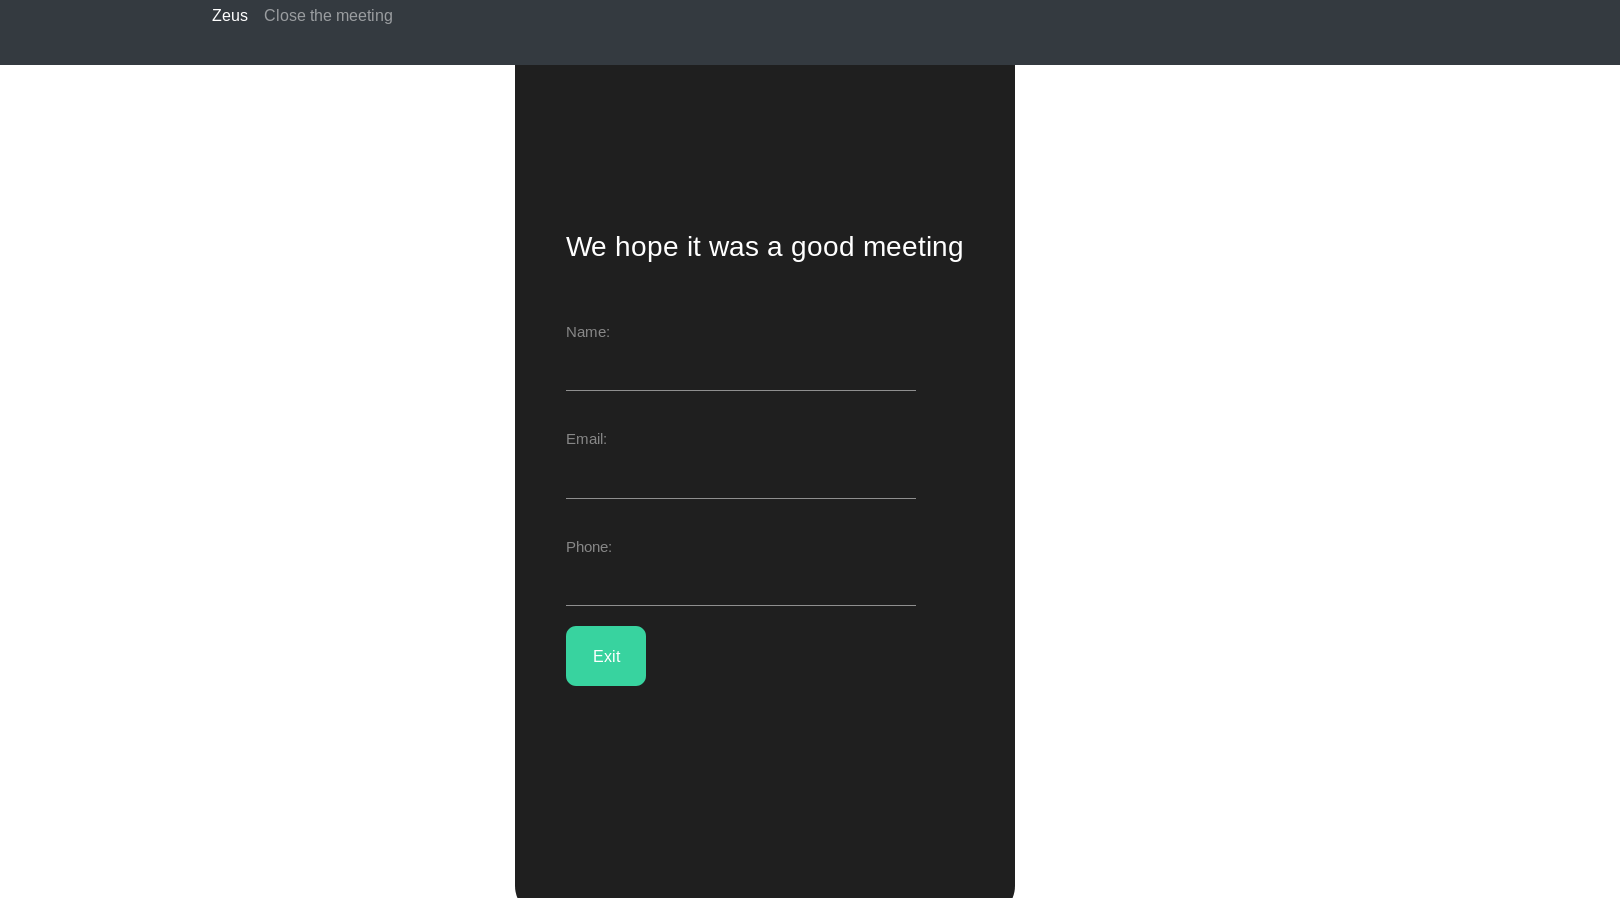
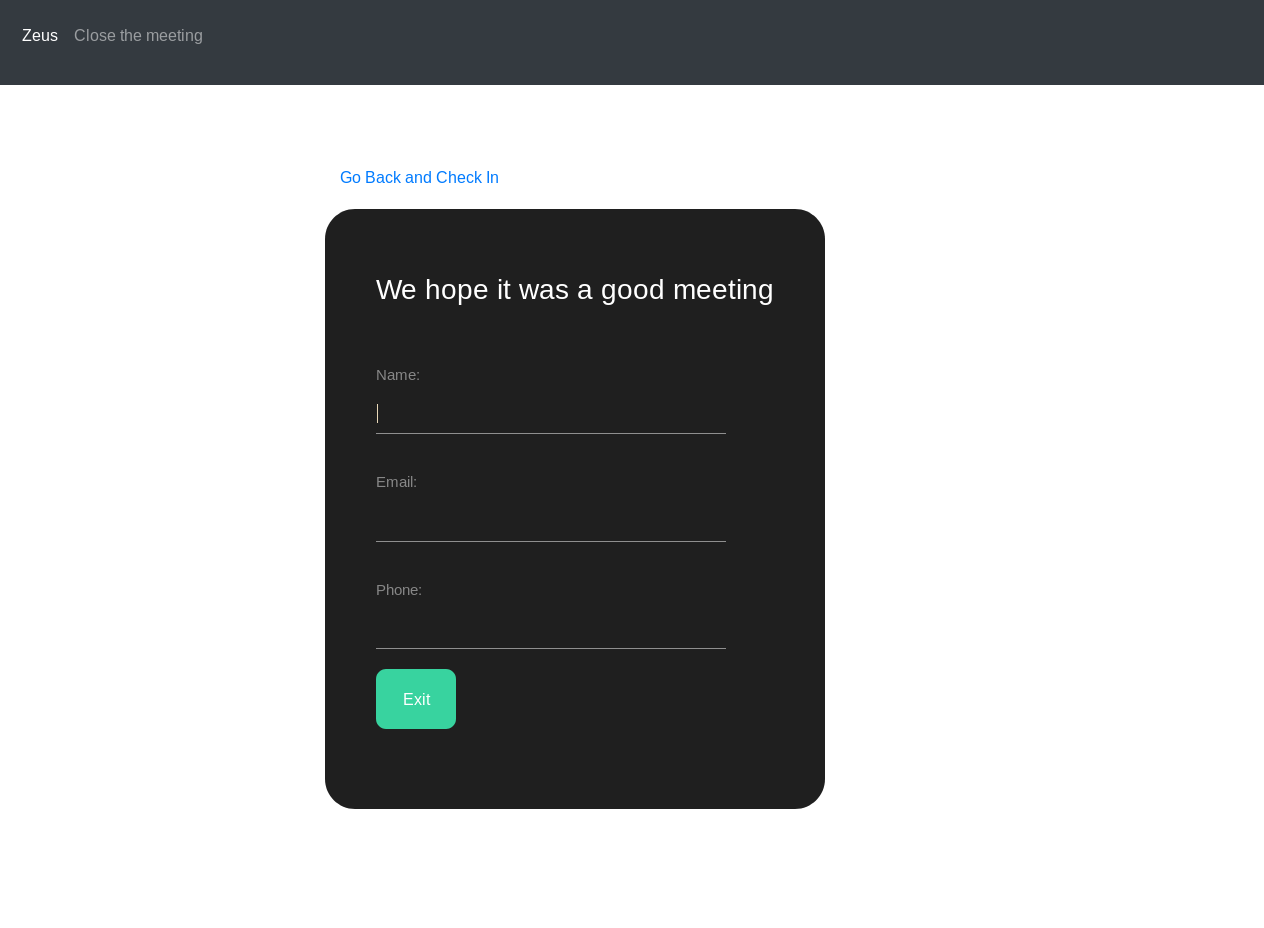
[Added] Screenshots and [Modified] CSS

Changed region(s): [[0.0, 0.0, 1.0, 1.0]]

diff --git a/zeus/static/css/style.css b/zeus/static/css/style.css
@@ -148,3 +148,19 @@ body {
 .guest-form-container h1{
 	color: white;
 }
+
+.checkout-form-container {
+	width: 500px;
+	height: 600px;
+	margin-top: 20px;
+	display: flex;
+	flex-direction: column;
+	justify-content: center;
+	align-items: center;
+	border-radius: 30px;
+	background-color: #1f1f1f;
+}
+
+.checkout-form-container h1{
+	color: white;
+}

diff --git a/zeus/god/templates/auth/ClientCheckout.html b/zeus/god/templates/auth/ClientCheckout.html
@@ -31,7 +31,7 @@
 
 
 
-        <div class="form-container"> 
+        <div class="checkout-form-container"> 
             <form action="{% url 'god:checkout' %}" method="POST">
                     {% csrf_token %}
                     <h3 style="color:white;">We hope it was a good meeting </h3><br><br>
